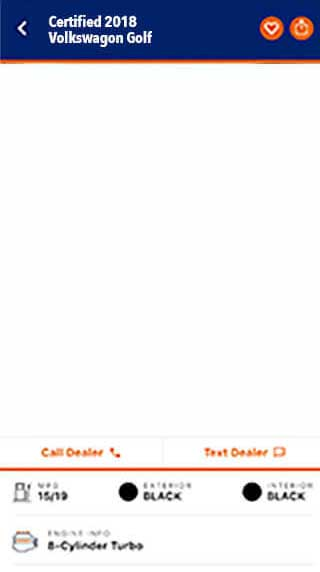
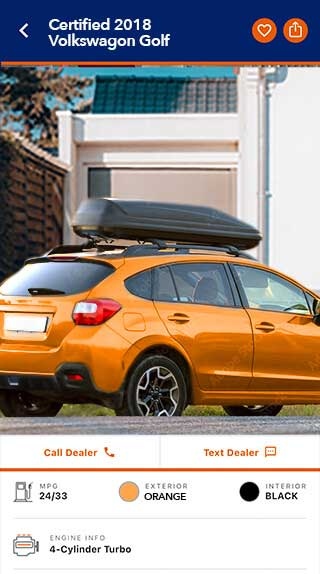
Add files via upload

diff --git a/AT_0423_Buyer_160x600/index.js b/AT_0423_Buyer_160x600/index.js
@@ -28,7 +28,7 @@ lib.ssMetadata = [];
 (lib.app = function() {
 	this.initialize(img.app);
 }).prototype = p = new cjs.Bitmap();
-p.nominalBounds = new cjs.Rectangle(0,0,320,1200);
+p.nominalBounds = new cjs.Rectangle(0,0,320,887);
 
 
 (lib.bluebar = function() {
@@ -106,7 +106,7 @@ p.nominalBounds = new cjs.Rectangle(0,0,320,1200);
 (lib.post = function() {
 	this.initialize(img.post);
 }).prototype = p = new cjs.Bitmap();
-p.nominalBounds = new cjs.Rectangle(0,0,320,572);
+p.nominalBounds = new cjs.Rectangle(0,0,320,574);
 
 
 (lib.text1 = function() {
@@ -312,7 +312,7 @@ if (reversed == null) { reversed = false; }
 
 	this._renderFirstFrame();
 
-}).prototype = getMCSymbolPrototype(lib.post_1, new cjs.Rectangle(0,0,160,286), null);
+}).prototype = getMCSymbolPrototype(lib.post_1, new cjs.Rectangle(0,0,160,287), null);
 
 
 (lib.orangebar_1 = function(mode,startPosition,loop,reversed) {
@@ -650,7 +650,7 @@ if (reversed == null) { reversed = false; }
 
 	this._renderFirstFrame();
 
-}).prototype = getMCSymbolPrototype(lib.app_1, new cjs.Rectangle(0,0,160,600), null);
+}).prototype = getMCSymbolPrototype(lib.app_1, new cjs.Rectangle(0,0,160,443.5), null);
 
 
 // stage content:
@@ -984,26 +984,26 @@ lib.properties = {
 	color: "#FFFFFF",
 	opacity: 1.00,
 	manifest: [
-		{src:"images/app.jpg?1681489521125", id:"app"},
-		{src:"images/bluebar.png?1681489521125", id:"bluebar"},
-		{src:"images/cta.png?1681489521125", id:"cta"},
-		{src:"images/head1.png?1681489521125", id:"head1"},
-		{src:"images/head2.png?1681489521125", id:"head2"},
-		{src:"images/head3_1.png?1681489521125", id:"head3_1"},
-		{src:"images/head3_2.png?1681489521125", id:"head3_2"},
-		{src:"images/head3_3.png?1681489521125", id:"head3_3"},
-		{src:"images/head3_4.png?1681489521125", id:"head3_4"},
-		{src:"images/head3_5.png?1681489521125", id:"head3_5"},
-		{src:"images/image.jpg?1681489521125", id:"image"},
-		{src:"images/logo.png?1681489521125", id:"logo"},
-		{src:"images/orangebar.png?1681489521125", id:"orangebar"},
-		{src:"images/post.jpg?1681489521125", id:"post"},
-		{src:"images/text1.png?1681489521125", id:"text1"},
-		{src:"images/text2.png?1681489521125", id:"text2"},
-		{src:"images/text3.png?1681489521125", id:"text3"},
-		{src:"images/text4.png?1681489521125", id:"text4"},
-		{src:"images/text5.png?1681489521125", id:"text5"},
-		{src:"images/text6.png?1681489521125", id:"text6"}
+		{src:"images/app.jpg?1681498167647", id:"app"},
+		{src:"images/bluebar.png?1681498167647", id:"bluebar"},
+		{src:"images/cta.png?1681498167647", id:"cta"},
+		{src:"images/head1.png?1681498167647", id:"head1"},
+		{src:"images/head2.png?1681498167647", id:"head2"},
+		{src:"images/head3_1.png?1681498167647", id:"head3_1"},
+		{src:"images/head3_2.png?1681498167647", id:"head3_2"},
+		{src:"images/head3_3.png?1681498167647", id:"head3_3"},
+		{src:"images/head3_4.png?1681498167647", id:"head3_4"},
+		{src:"images/head3_5.png?1681498167647", id:"head3_5"},
+		{src:"images/image.jpg?1681498167647", id:"image"},
+		{src:"images/logo.png?1681498167647", id:"logo"},
+		{src:"images/orangebar.png?1681498167647", id:"orangebar"},
+		{src:"images/post.jpg?1681498167647", id:"post"},
+		{src:"images/text1.png?1681498167647", id:"text1"},
+		{src:"images/text2.png?1681498167647", id:"text2"},
+		{src:"images/text3.png?1681498167647", id:"text3"},
+		{src:"images/text4.png?1681498167647", id:"text4"},
+		{src:"images/text5.png?1681498167647", id:"text5"},
+		{src:"images/text6.png?1681498167647", id:"text6"}
 	],
 	preloads: []
 };

diff --git a/AT_0423_Buyer_160x600/index.html b/AT_0423_Buyer_160x600/index.html
@@ -25,7 +25,7 @@ var clickTag = "http://www.google.com"; </script>
   }
 </style>
 <script src="https://code.createjs.com/1.0.0/createjs.min.js"></script>
-<script src="index.js?1681489521131"></script>
+<script src="index.js?1681498167724"></script>
 <script>
 var canvas, stage, exportRoot;
 function init() {
